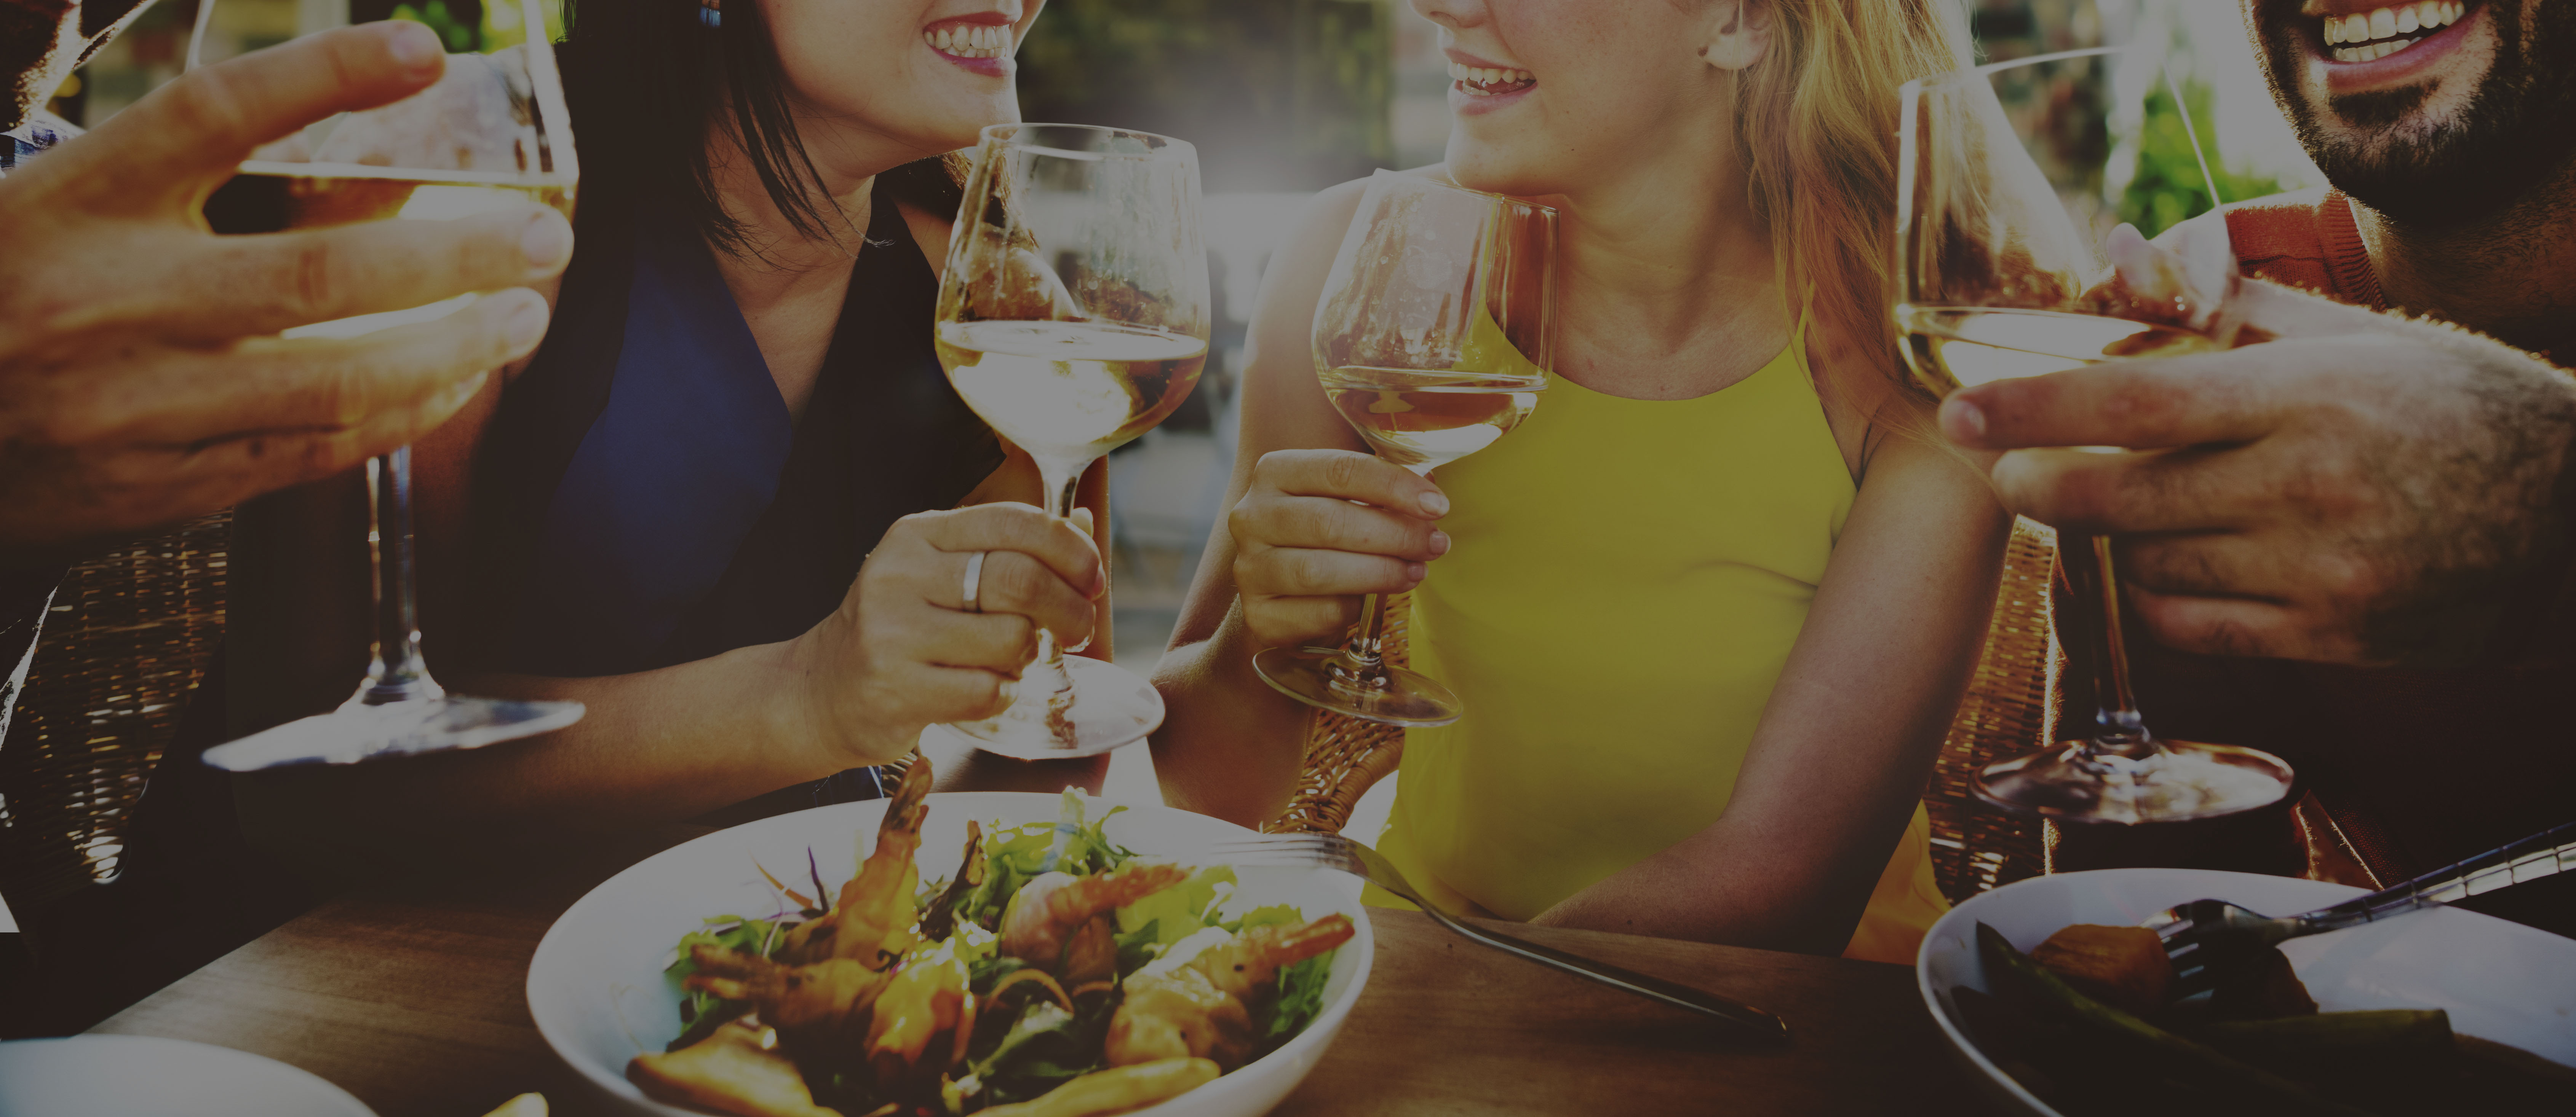
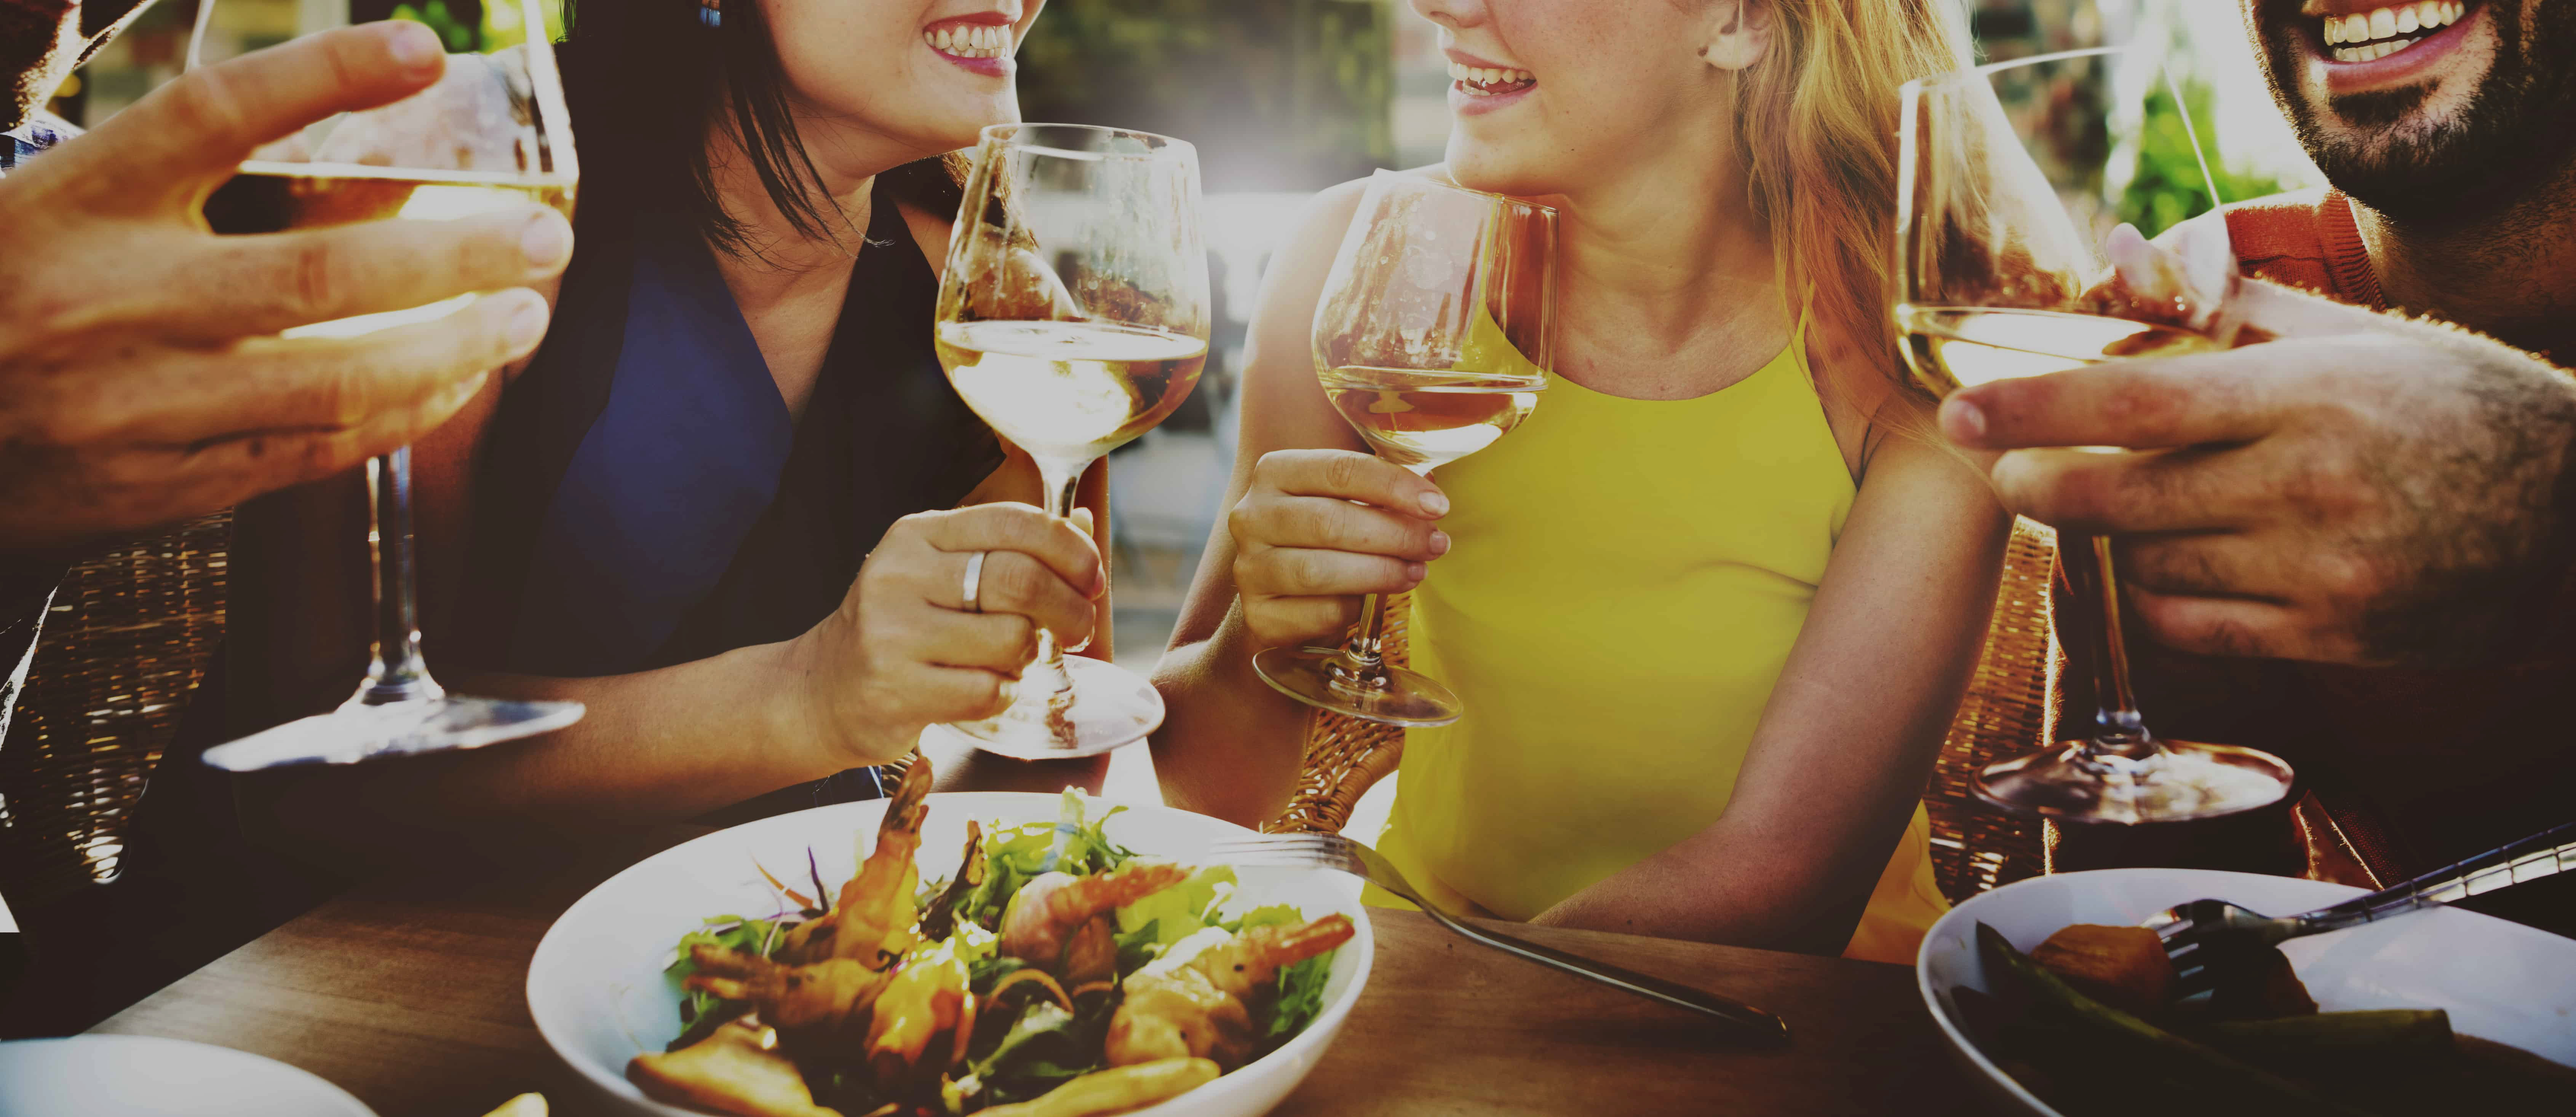
background works

diff --git a/assets/css/style.css b/assets/css/style.css
@@ -5,7 +5,7 @@ html {
 }
 
 body {
-  background-image: url(/assets/images/background-image.jpg);
+  background-image: url(../images/background-image.jpg);
   /* height: 100%; */
   background-position: center;
   background-repeat: no-repeat;

diff --git a/index.html b/index.html
@@ -33,6 +33,8 @@
     </nav>
 
     <div class="container" id="form-input">
+      <h1>slogan slogan slogan</h1>
+
       <form>
         <div class="form-group row">
           <div class="col-7">
